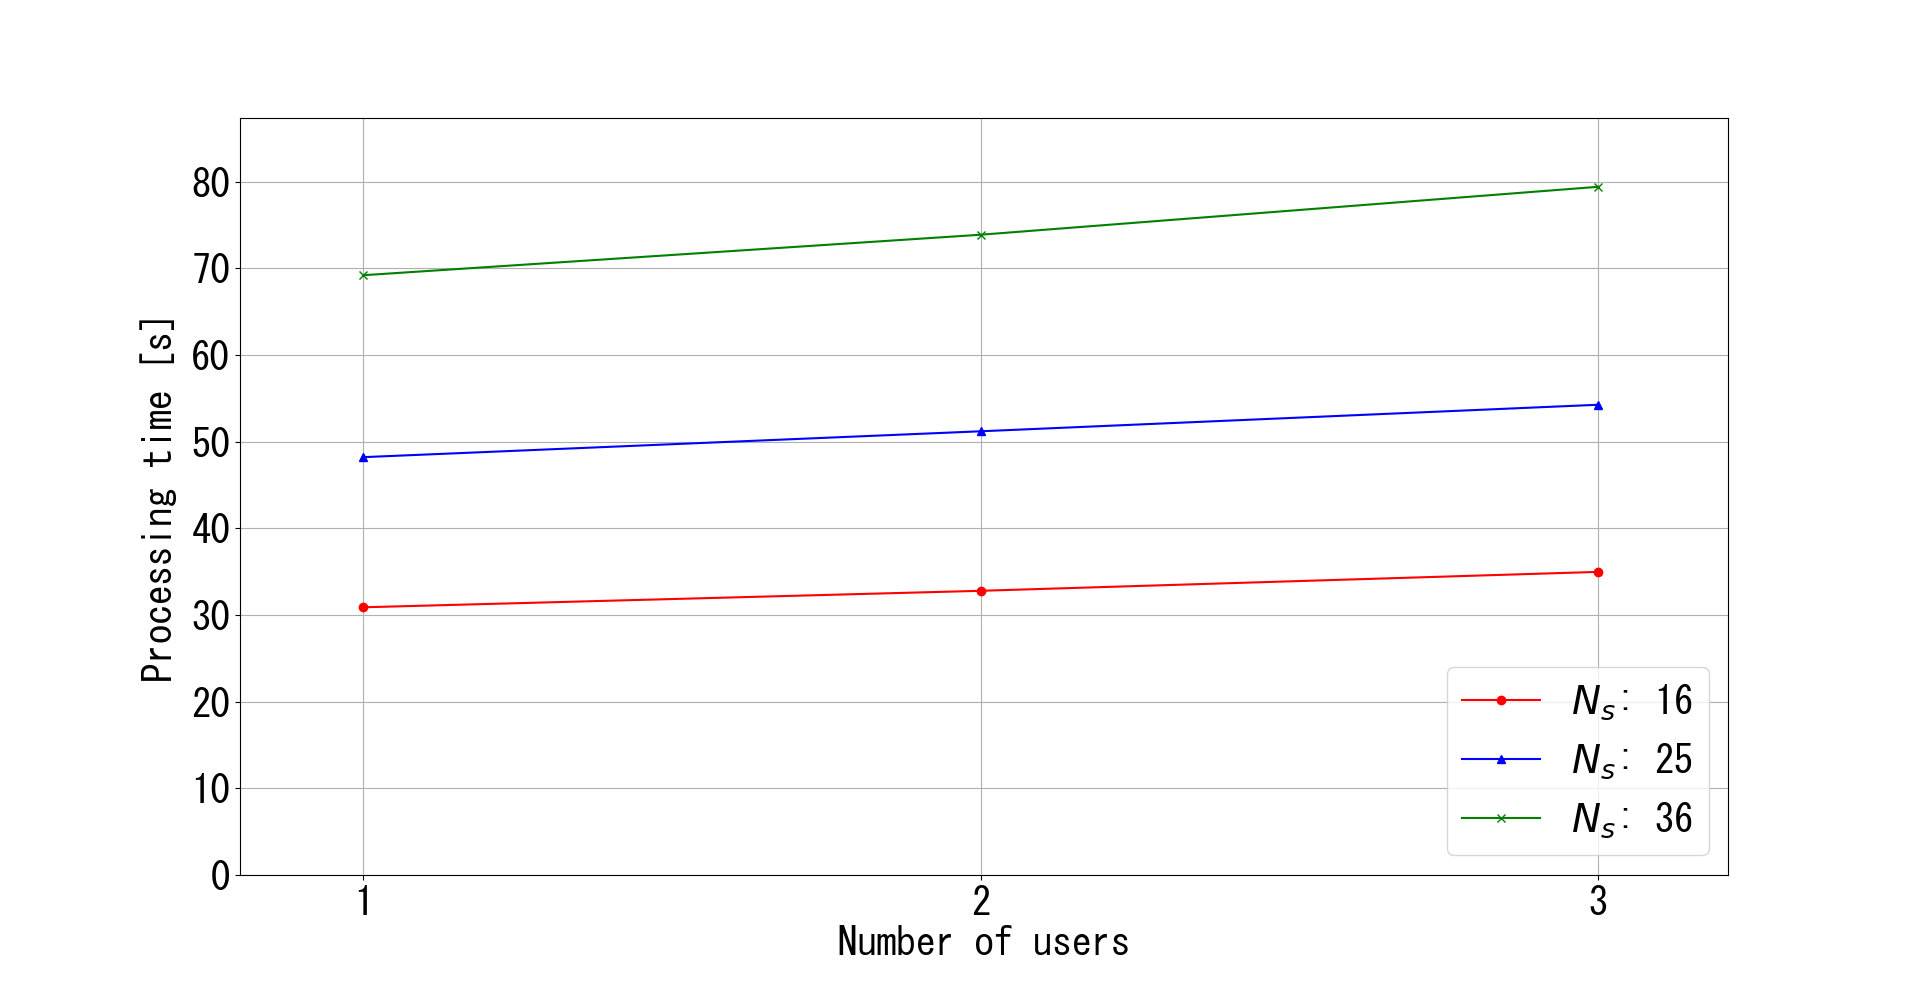
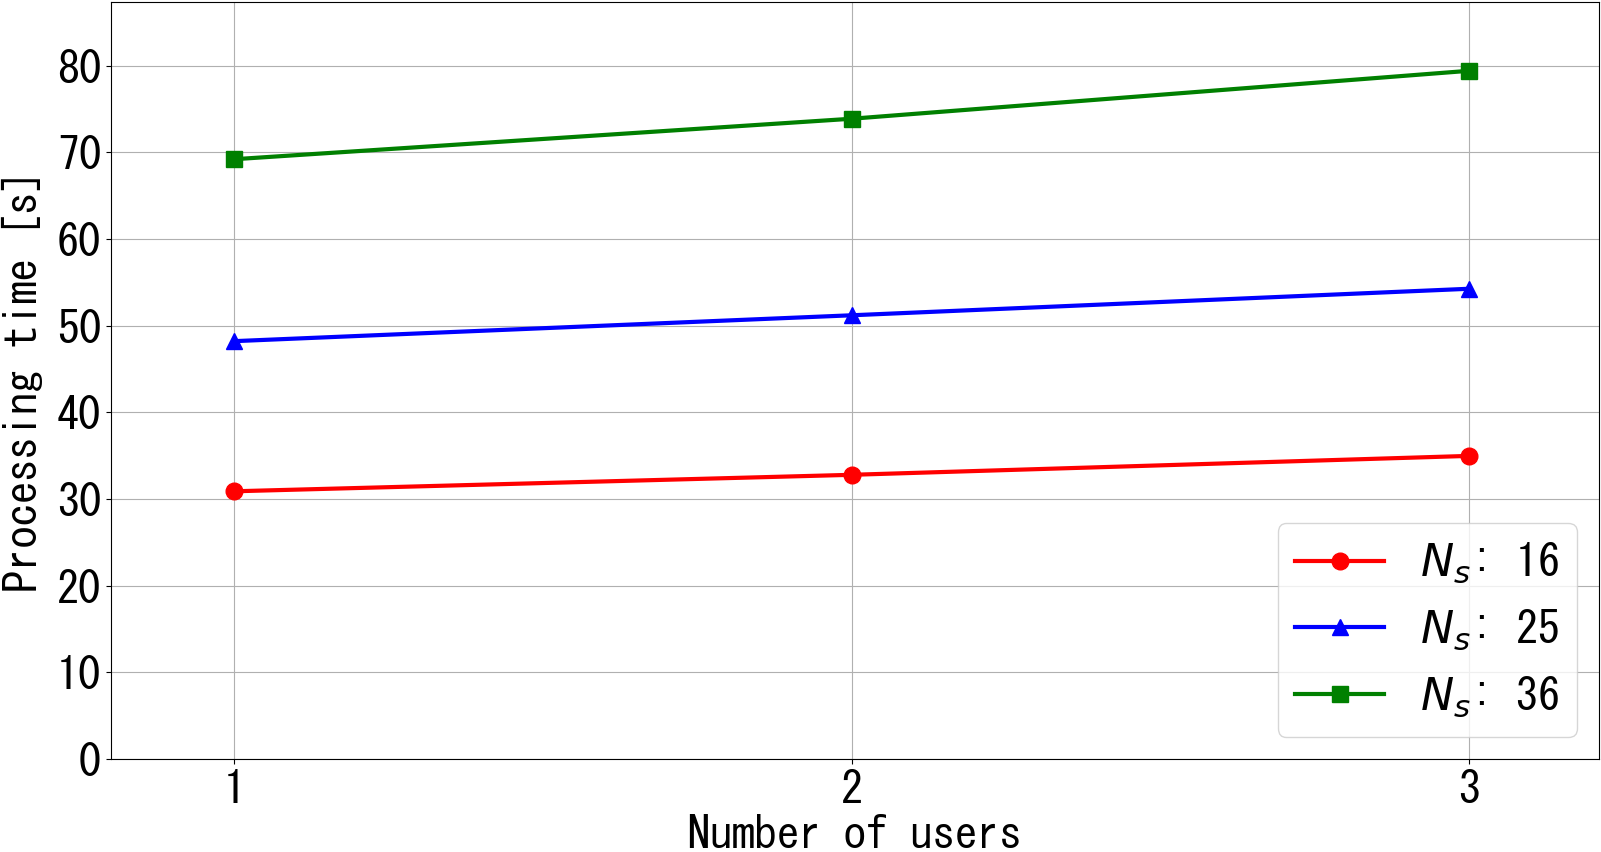
ひとまずグラフを完成させた

diff --git a/results/2025_02_19_performance/show_graph.py b/results/2025_02_19_performance/show_graph.py
@@ -26,7 +26,7 @@ def plot_processing_time(file_path):
     num_people, times = load_data(file_path)
     
     plt.rcParams['font.family'] = 'MS Gothic'
-    plt.rcParams['font.size'] = 28
+    plt.rcParams['font.size'] = 32
 
     # カラーコードとマーカーの設定
     colors = {
@@ -38,7 +38,7 @@ def plot_processing_time(file_path):
     markers = {
         16: 'o',
         25: '^',
-        36: 'x'
+        36: 's'
     }
 
     plt.figure(figsize=(8, 6))
@@ -46,7 +46,9 @@ def plot_processing_time(file_path):
         plt.plot(num_people, time_list, 
                 marker=markers[state], 
                 color=colors[state],  
-                label=f'$N_s$: {state}')
+                label=f'$N_s$: {state}',
+                markersize=12,       # マーカーサイズを設定
+                linewidth=3)         # 線の太さを設定
     
     plt.xlabel("Number of users")
     plt.ylabel("Processing time [s]", labelpad=10)
